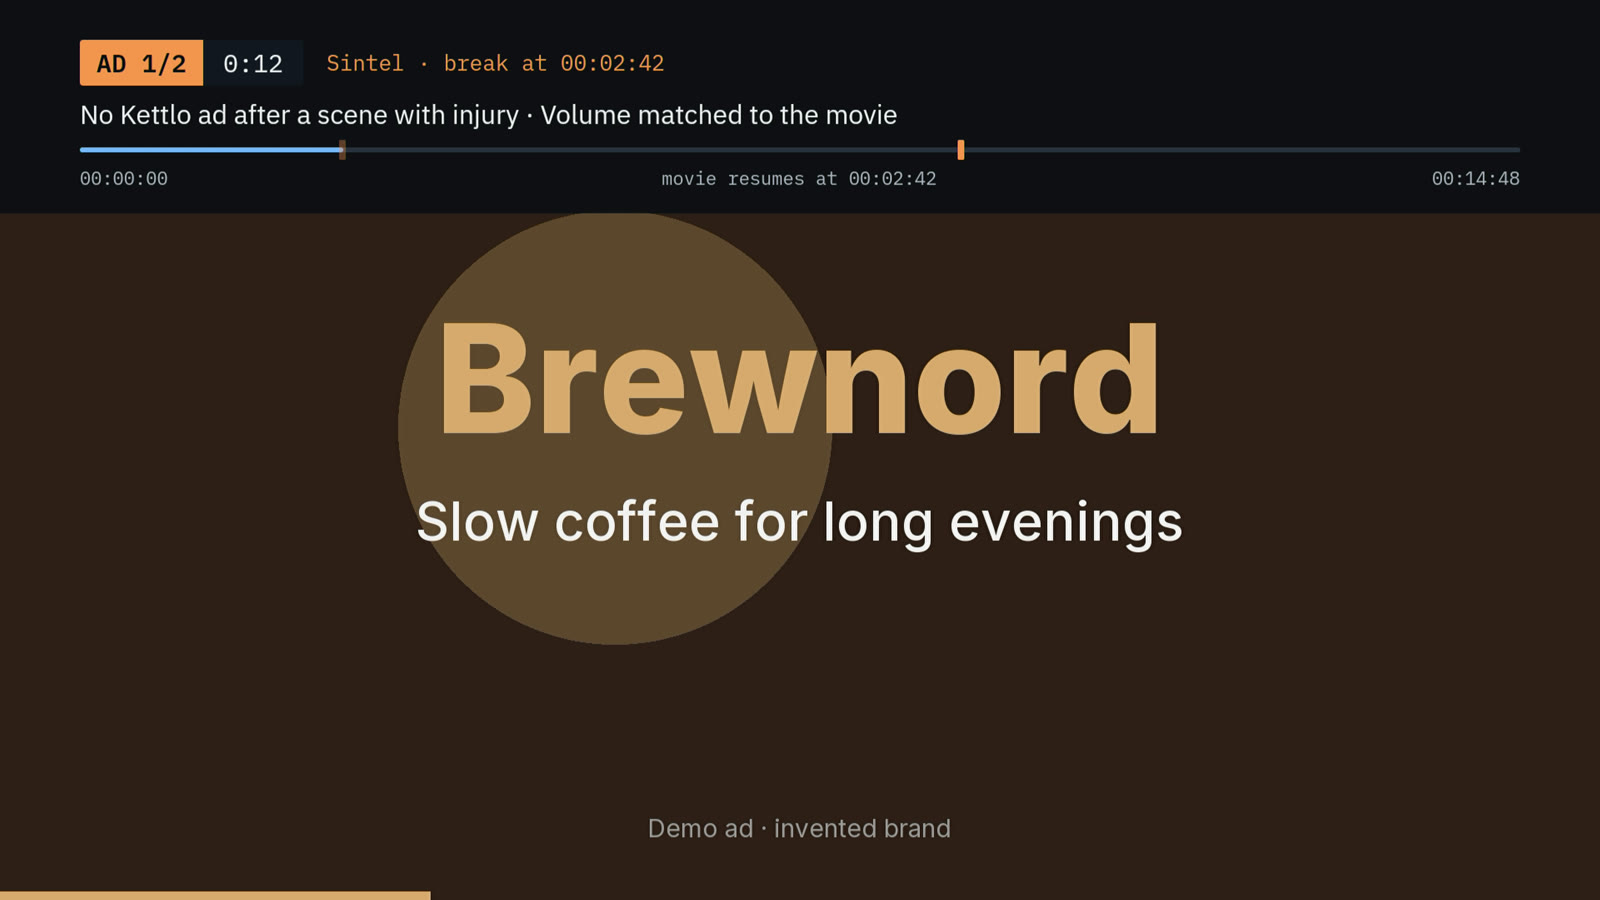
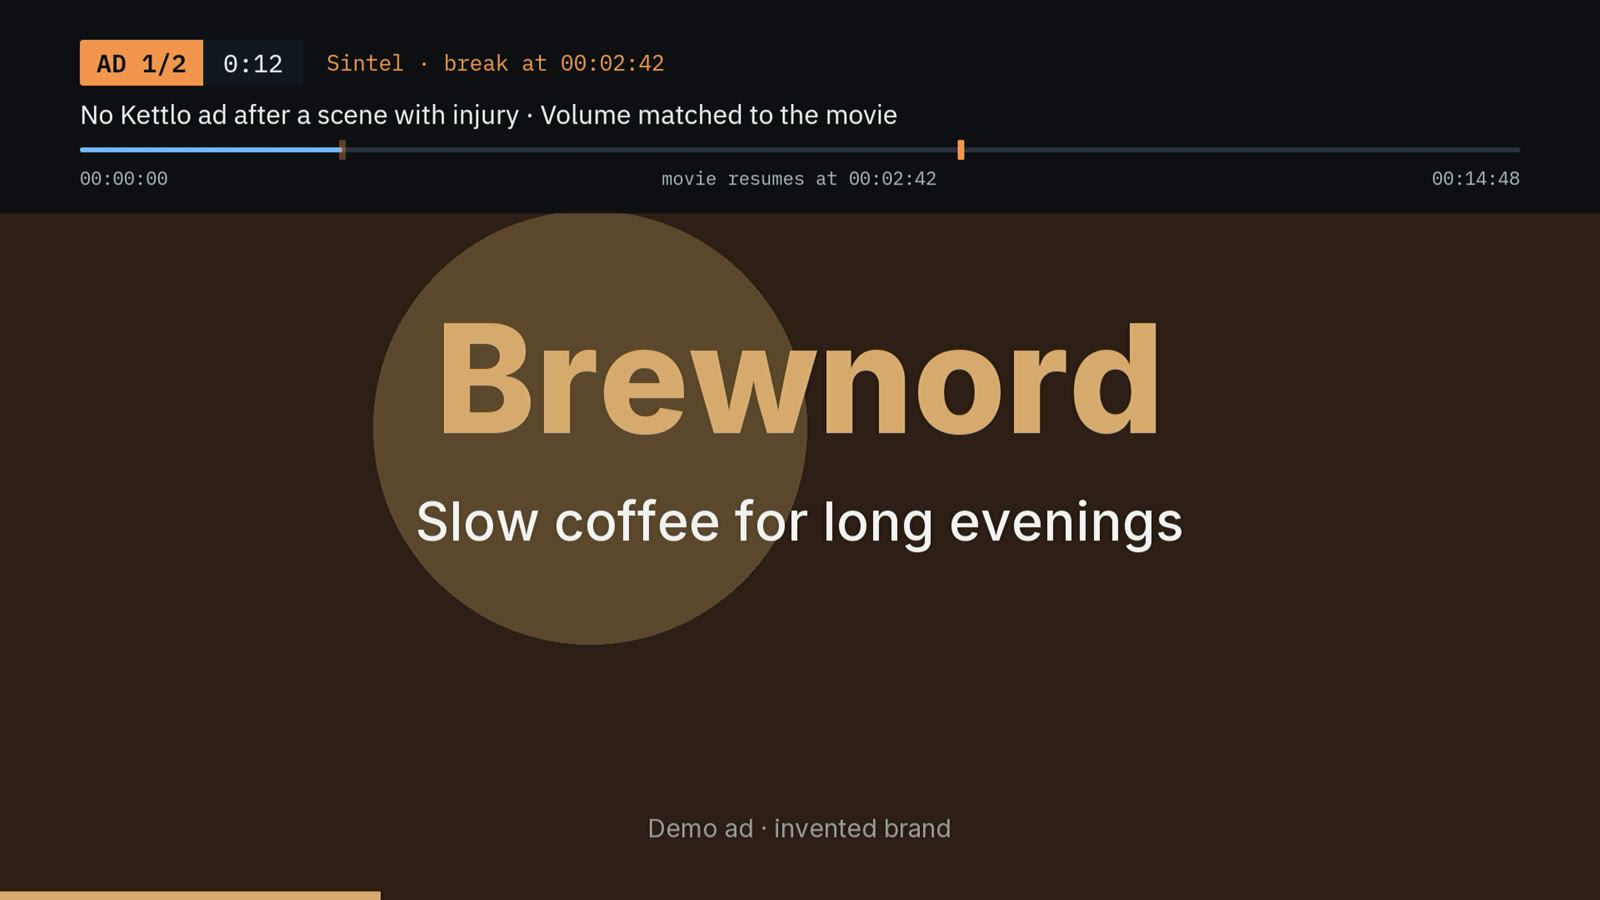
docs(readme): Sintel break map screenshot with the scene signals

diff --git a/README.md b/README.md
@@ -7,9 +7,9 @@
 - **Never the same ad twice.** A creative is not shown again within 30 minutes, and a break has one ad per advertiser.
 - **No unfitting ad after a hard scene.** A local vision model looks at the scene before each break, so there are no car ads right after a car crash. The player leaves out the blocked categories.
 
-| Before Play: the break map | A break: why it looks like this | Paused: a pause ad |
+| Before Play: the break map, with what the model saw before each break | A break: why it looks like this | Paused: a pause ad |
 | --- | --- | --- |
-| ![The movie page with the break map: pre-roll, 00:02:19.917, 00:07:21.208, post-roll](docs/images/movie-page.jpg) | ![An ad in a mid-roll of Sintel: "No Kettlo ad after a scene with injury · Volume matched to the movie"](docs/images/ad-break.jpg) | ![The paused movie with a pause ad and a QR code](docs/images/pause-ad.jpg) |
+| ![Sintel's movie page with the break map: pre-roll, 00:02:42.083 after injury, 00:09:03.125 after death and weapons, post-roll](docs/images/movie-page.jpg) | ![An ad in a mid-roll of Sintel: "No Kettlo ad after a scene with injury · Volume matched to the movie"](docs/images/ad-break.jpg) | ![The paused movie with a pause ad and a QR code](docs/images/pause-ad.jpg) |
 
 Screenshots of the demo app on a Fire TV Stick 4K Select. Films: (CC) Blender Foundation, CC BY 3.0. Ads: invented brands.
 
